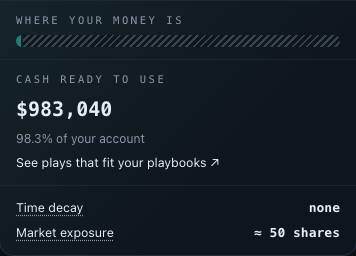
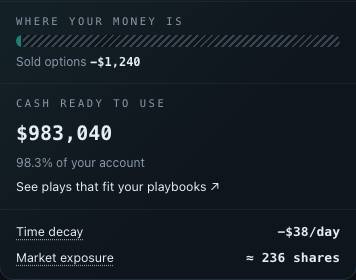
fix(accounts): keep the sold-options line on the phone money card
Summary: the phone card hides the money legend, but now keeps the
"Sold options" line, so a written contract still shows its liability at
390px. Whether a contract is written now comes from the position's sign,
so a sold option marked at 0 reads "Sold options $0" instead of falling
back to "Options $0", and a liability under 50 cents no longer reads
"-$0".

Why: review of #4948 found the fix invisible at phone width, the frame
this house designs for first, and two edge cases that still read $0.

Refs #4948

diff --git a/src/observatory/desk-allocation.ts b/src/observatory/desk-allocation.ts
@@ -28,6 +28,7 @@ export function allocationOf(snapshot: ParticipantSnapshot): DeskAllocation {
   let shares = 0;
   let options = 0;
   let optionsSold = 0;
+  let anySold = false;
   let shareCount = 0;
   for (const p of snapshot.positions) {
     const long = Math.max(0, p.marketValue);
@@ -36,6 +37,9 @@ export function allocationOf(snapshot: ParticipantSnapshot): DeskAllocation {
       // A written contract's market value is negative: the liability, signed as the positions
       // table shows it. Clamping it to 0 alone is how a sold put read "Options $0" (#4948).
       optionsSold += Math.min(0, p.marketValue);
+      // Whether one is written comes from the position's sign, not the summed value: a contract
+      // marked at 0 (no quote, or worthless near expiry) is still owed, never "Options $0".
+      if (p.quantity < 0 || p.marketValue < 0) anySold = true;
     } else {
       shares += long;
       shareCount += p.quantity;
@@ -47,7 +51,8 @@ export function allocationOf(snapshot: ParticipantSnapshot): DeskAllocation {
   return {
     shares: formatCurrency(shares),
     options: formatCurrency(options),
-    ...(optionsSold < 0 ? { optionsSold: formatCurrency(optionsSold) } : {}),
+    // Rounded first, so a liability under 50 cents reads "$0" rather than "-$0".
+    ...(anySold ? { optionsSold: formatCurrency(Math.round(optionsSold) || 0) } : {}),
     cash: formatCurrency(snapshot.cash),
     sharesPct: share(shares),
     optionsPct: share(options),

diff --git a/tests/observatory/desk-allocation.spec.ts b/tests/observatory/desk-allocation.spec.ts
@@ -43,6 +43,11 @@ describe("allocationOf", () => {
     expect(allocation.sharesPct + allocation.optionsPct + allocation.cashPct).toBeCloseTo(100, 10);
   });
 
+  it("still names a written contract whose mark is 0, and never reads '-$0'", () => {
+    expect(allocationOf(snapshot([{ ...soldPut, marketValue: 0 }])).optionsSold).toBe("$0");
+    expect(allocationOf(snapshot([{ ...soldPut, marketValue: -0.3 }])).optionsSold).toBe("$0");
+  });
+
   it("carries no sold line while nothing is written", () => {
     expect(allocationOf(snapshot([heldCall])).optionsSold).toBeUndefined();
     expect(allocationOf(snapshot([])).optionsSold).toBeUndefined();

diff --git a/app/src/styles/money-strip.css b/app/src/styles/money-strip.css
@@ -117,9 +117,10 @@
 
 /* Phone (#3689 slice 8, handoff 3b): the compact money card. The bar stays with its amounts under
    the cash line; the greeks keep their plain labels (still one tap from the glossary) and drop the
-   sentence under each. */
+   sentence under each. A sold option's liability stays: the bar can't draw it, so at phone width
+   that line is the only place the strip owns up to it (#4948). */
 @media (max-width: 700px) {
-  .money-legend,
+  .money-legend > li:not(.money-legend-sold),
   .money-greek .money-note {
     display: none;
   }

diff --git a/app/tests/shell/money-strip.spec.tsx b/app/tests/shell/money-strip.spec.tsx
@@ -80,6 +80,8 @@ describe("MoneyStrip", () => {
     await screen.findByRole("region", { name: "Where your money is" });
     const sold = screen.getByText("-$310");
     expect(sold.closest("li")).toHaveTextContent("Sold options -$310");
+    // The phone card hides the rest of the legend but keeps this line (the bar can't draw it).
+    expect(sold.closest("li")).toHaveClass("money-legend-sold");
     expect(screen.queryByText("$0")).not.toBeInTheDocument();
   });
 

diff --git a/app/src/shell/money-strip.tsx b/app/src/shell/money-strip.tsx
@@ -103,7 +103,7 @@ export function MoneyStrip({
             </li>
           )}
           {allocation.optionsSold ? (
-            <li>
+            <li className="money-legend-sold">
               Sold options <b className="num">{allocation.optionsSold}</b>
             </li>
           ) : null}
